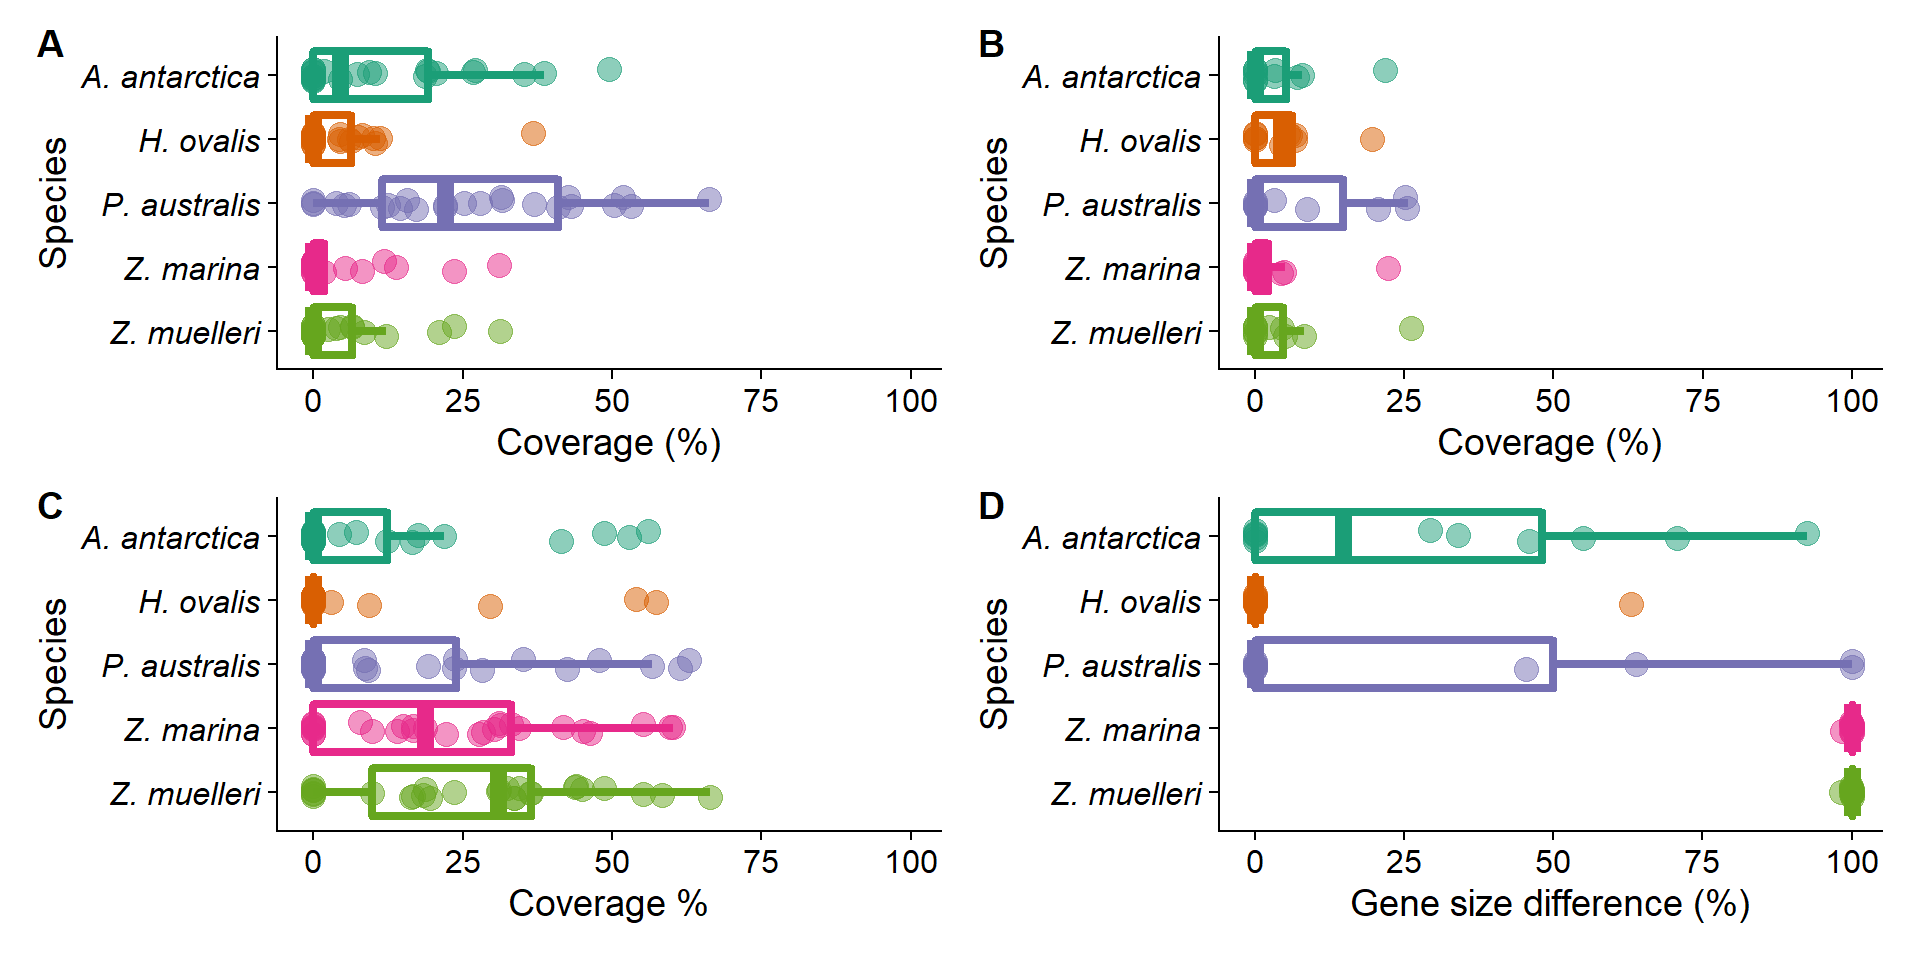
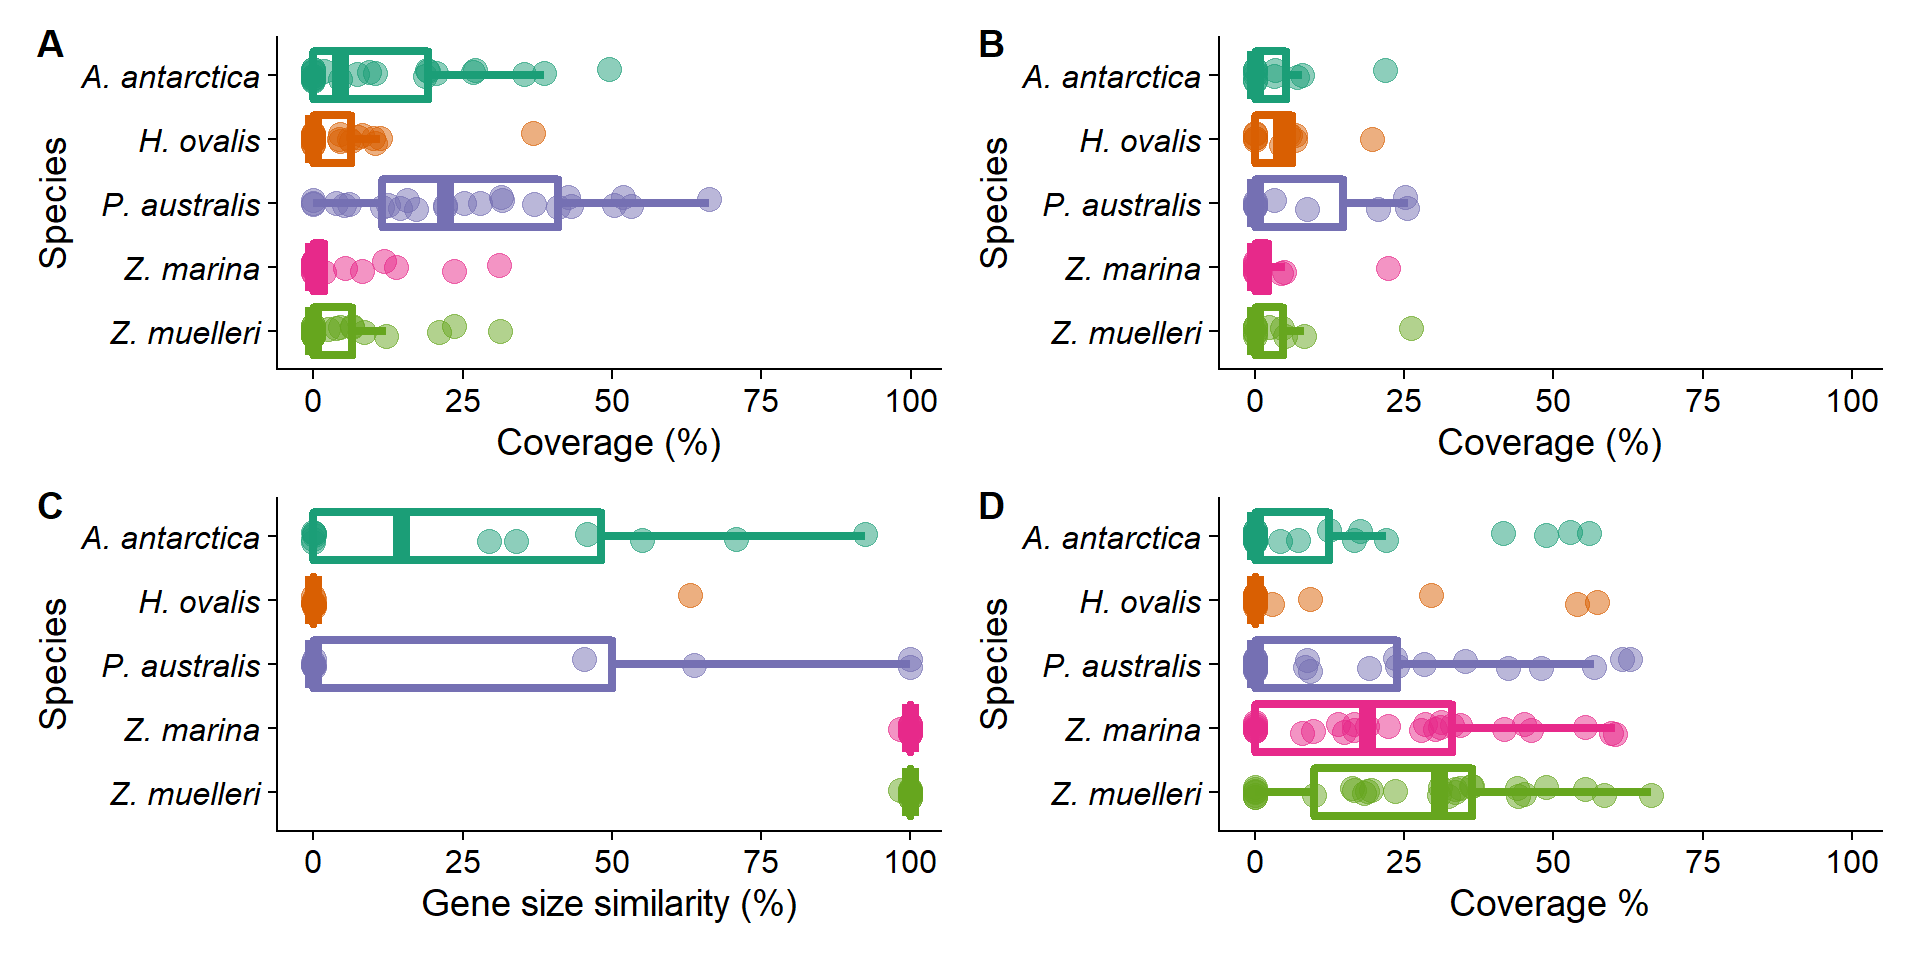
Build site.

diff --git a/docs/GeneLossComparisonReads.html b/docs/GeneLossComparisonReads.html
@@ -385,7 +385,7 @@ div.tocify {
 <div class="tab-content">
 <div id="summary" class="tab-pane fade in active">
 <p>
-<strong>Last updated:</strong> 2022-02-21
+<strong>Last updated:</strong> 2022-02-22
 </p>
 <p>
 <strong>Checks:</strong> <span class="glyphicon glyphicon-ok text-success" aria-hidden="true"></span> 7 <span class="glyphicon glyphicon-exclamation-sign text-danger" aria-hidden="true"></span> 0
@@ -476,16 +476,16 @@ This reproducible <a href="http://rmarkdown.rstudio.com">R Markdown</a> analysis
 <div class="panel panel-default">
 <div class="panel-heading">
 <p class="panel-title">
-<a data-toggle="collapse" data-parent="#workflowr-checks" href="#strongRepositoryversionstrongahrefhttpsgithubcomphilippbayerAmphibolisPosidoniaComparisontreea7948209b033a18e17e23b41076f1d181ca46771targetblanka794820a"> <span class="glyphicon glyphicon-ok text-success" aria-hidden="true"></span> <strong>Repository version:</strong> <a href="https://github.com/philippbayer/Amphibolis_Posidonia_Comparison/tree/a7948209b033a18e17e23b41076f1d181ca46771" target="_blank">a794820</a> </a>
+<a data-toggle="collapse" data-parent="#workflowr-checks" href="#strongRepositoryversionstrongahrefhttpsgithubcomphilippbayerAmphibolisPosidoniaComparisontree3586f4162dea71a95a9ada72d4622bf6644b350btargetblank3586f41a"> <span class="glyphicon glyphicon-ok text-success" aria-hidden="true"></span> <strong>Repository version:</strong> <a href="https://github.com/philippbayer/Amphibolis_Posidonia_Comparison/tree/3586f4162dea71a95a9ada72d4622bf6644b350b" target="_blank">3586f41</a> </a>
 </p>
 </div>
[2 lines of base64/hex data omitted]
 <div class="panel-body">
 <p>
 Great! You are using Git for version control. Tracking code development and connecting the code version to the results is critical for reproducibility.
 </p>
 <p>
-The results in this page were generated with repository version <a href="https://github.com/philippbayer/Amphibolis_Posidonia_Comparison/tree/a7948209b033a18e17e23b41076f1d181ca46771" target="_blank">a794820</a>. See the <em>Past versions</em> tab to see a history of the changes made to the R Markdown and HTML files.
+The results in this page were generated with repository version <a href="https://github.com/philippbayer/Amphibolis_Posidonia_Comparison/tree/3586f4162dea71a95a9ada72d4622bf6644b350b" target="_blank">3586f41</a>. See the <em>Past versions</em> tab to see a history of the changes made to the R Markdown and HTML files.
 </p>
 <p>
 Note that you need to be careful to ensure that all relevant files for the analysis have been committed to Git prior to generating the results (you can use <code>wflow_publish</code> or <code>wflow_git_commit</code>). workflowr only checks the R Markdown file, but you know if there are other scripts or data files that it depends on. Below is the status of the Git repository when the results were generated:
@@ -498,9 +498,14 @@ Ignored files:
     Ignored:    analysis/plotGenes.nb.html
     Ignored:    analysis/plotRgenes.nb.html
 
+Untracked files:
+    Untracked:  data/Mitochondrial_assemblies/
+    Untracked:  data/Orthogroups.tsv.gz
+
 Unstaged changes:
-    Modified:   analysis/GOenrichment.Rmd
     Modified:   analysis/Orthofinder.Rmd
+    Modified:   data/Chloroplast_assemblies/compareArabidopsisgenes.py
+    Deleted:    data/Orthogroups.tsv
 
 </code></pre>
 <p>
@@ -539,6 +544,74 @@ Message
 </tr>
 </thead>
 <tbody>
+<tr>
+<td>
+Rmd
+</td>
+<td>
+<a href="https://github.com/philippbayer/Amphibolis_Posidonia_Comparison/blob/3586f4162dea71a95a9ada72d4622bf6644b350b/analysis/GeneLossComparisonReads.Rmd" target="_blank">3586f41</a>
+</td>
+<td>
+Philipp Bayer
+</td>
+<td>
+2022-02-22
+</td>
+<td>
+Make order of plot nicer
+</td>
+</tr>
+<tr>
+<td>
+Rmd
+</td>
+<td>
+<a href="https://github.com/philippbayer/Amphibolis_Posidonia_Comparison/blob/ab9a1f6eba9f91725081729b83cf2467438a2133/analysis/GeneLossComparisonReads.Rmd" target="_blank">ab9a1f6</a>
+</td>
+<td>
+Philipp Bayer
+</td>
+<td>
+2022-02-21
+</td>
+<td>
+add some more changes
+</td>
+</tr>
+<tr>
+<td>
+html
+</td>
+<td>
+<a href="https://rawcdn.githack.com/philippbayer/Amphibolis_Posidonia_Comparison/ab9a1f6eba9f91725081729b83cf2467438a2133/docs/GeneLossComparisonReads.html" target="_blank">ab9a1f6</a>
+</td>
+<td>
+Philipp Bayer
+</td>
+<td>
+2022-02-21
+</td>
+<td>
+add some more changes
+</td>
+</tr>
+<tr>
+<td>
+html
+</td>
+<td>
+<a href="https://rawcdn.githack.com/philippbayer/Amphibolis_Posidonia_Comparison/040d06bb70a612c08be28ea1728757cccc081a6e/docs/GeneLossComparisonReads.html" target="_blank">040d06b</a>
+</td>
+<td>
+Philipp Bayer
+</td>
+<td>
+2022-02-21
+</td>
+<td>
+Build site.
+</td>
+</tr>
 <tr>
 <td>
 Rmd
@@ -766,7 +839,7 @@ ndh_p</code></pre>
   theme(legend.position = &quot;None&quot;,
   axis.text.y = element_text(face = &quot;italic&quot;)) +
   scale_color_brewer(palette=&#39;Dark2&#39;) +
-  ylab(&#39;Gene size difference (%)&#39;) +
+  ylab(&#39;Gene size similarity (%)&#39;) +
   xlab(&#39;Species&#39;) +
   coord_flip()
 ndh_chl_p</code></pre>
@@ -774,7 +847,7 @@ ndh_chl_p</code></pre>
 </div>
 <div id="all-together" class="section level1">
 <h1>all together</h1>
-<pre class="r"><code>patchwork &lt;- (eth_p + stom_p) / (ndh_p + ndh_chl_p)
+<pre class="r"><code>patchwork &lt;- (eth_p + stom_p) / ( ndh_chl_p + ndh_p )
 # patchwork[[2]] = patchwork[[2]] + theme(axis.text.y = element_blank(),
 #                                         axis.ticks.y = element_blank(),
 #                                         axis.title.y = element_blank() )
